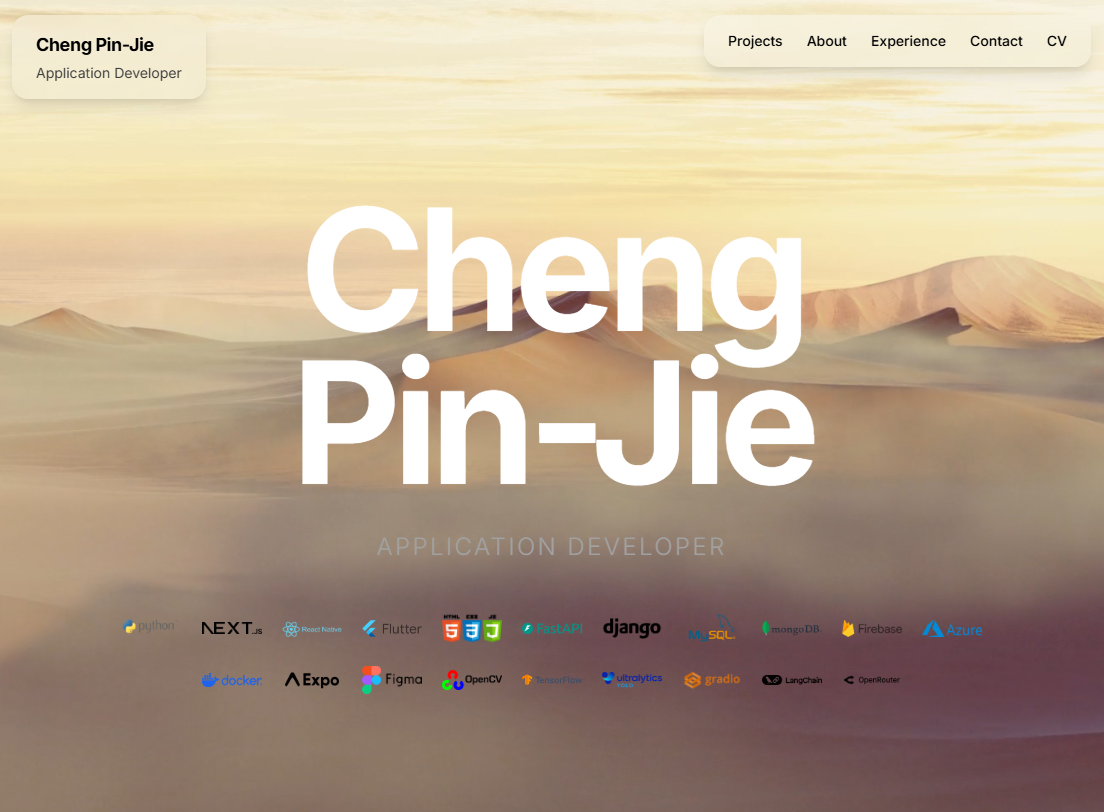
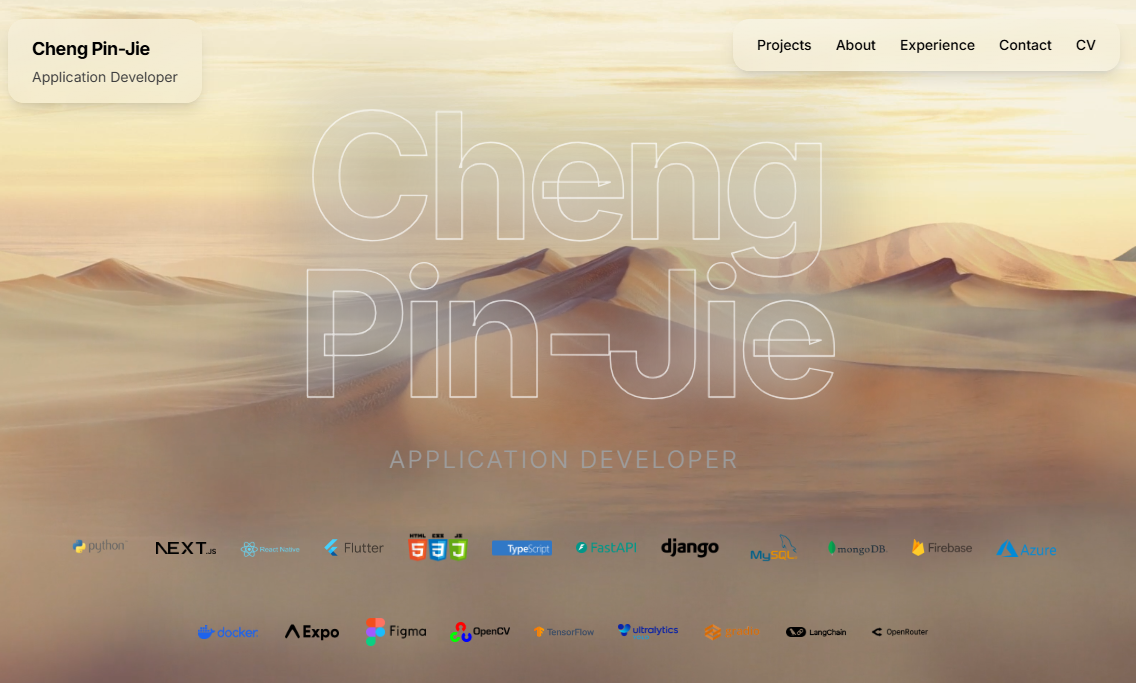
Edited title on landing page

diff --git a/src/app/page.tsx b/src/app/page.tsx
@@ -24,7 +24,7 @@ export default function Home() {
                 {/* Hero Section */}
                 <section id="hero" className="h-screen w-full relative flex flex-col items-center justify-center px-4">
                     <div className="z-10 flex flex-col items-center justify-center text-center">
-                        <h1 className="text-massive font-bold tracking-tighter text-white leading-none">
+                        <h1 className="text-massive font-bold tracking-tighter text-transparent leading-none drop-shadow-[0_8px_32px_rgba(0,0,0,0.8)] [-webkit-text-stroke:_2px_rgba(255,255,255,1)] ]">
                             {resumeData.name.split(" ")[0]}<br />
                             {resumeData.name.split(" ").slice(1).join(" ")}
                         </h1>
